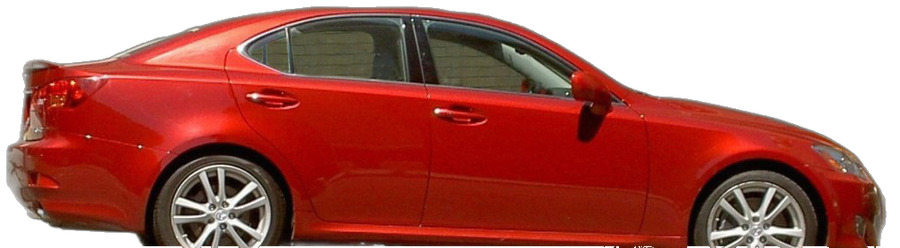
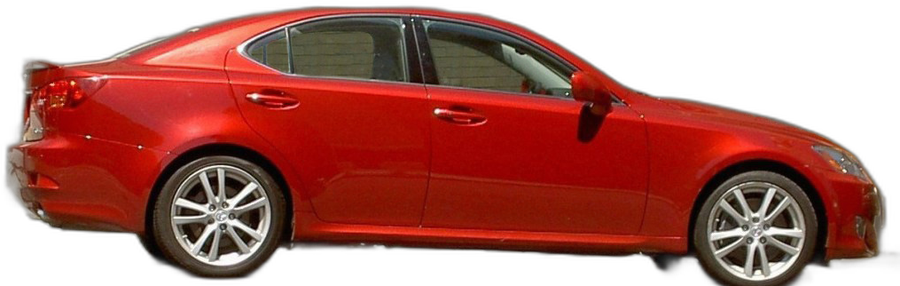
Урок 10: исправлена вырезка фото — низ шин больше не срезан (обрезалась только тень под машиной), колёса видны полностью (v75)

diff --git a/MVP/js/lessons.js b/MVP/js/lessons.js
@@ -695,7 +695,7 @@ function l10Road(moving, v1, v2, dur, dist, start){
     <!-- машина (стоит на асфальте: низ фото = верх асфальта) -->
     <div style="position:absolute;bottom:${ASF}px;left:${stX}px;z-index:4;animation:wvDrive ${dur||1.6}s cubic-bezier(.45,0,.55,1) both;--dx:${dx}px;line-height:0">
       <div class="${moving?'l10-bob':''}" style="line-height:0">
-        <img src="img/car.png?v=73" alt="машина" style="width:${CARW}px;height:auto;display:block">
+        <img src="img/car.png?v=75" alt="машина" style="width:${CARW}px;height:auto;display:block">
       </div>
     </div>
     ${dust}
@@ -929,7 +929,7 @@ function visPhysNew(el){
           const v=Math.round(st.p/st.t*10)/10; const px=Math.min(208, st.p*3);
           h=col(
             `<div class="wv-road" style="width:300px"><div class="wv-lane"></div>
-              <div style="position:absolute;bottom:-2px;left:2px;transform:translateX(${px}px);transition:transform 1s ease;line-height:0"><img src="img/car.png?v=73" style="width:88px;height:auto;display:block"></div>
+              <div style="position:absolute;bottom:-2px;left:2px;transform:translateX(${px}px);transition:transform 1s ease;line-height:0"><img src="img/car.png?v=75" style="width:88px;height:auto;display:block"></div>
               <div style="position:absolute;top:-4px;right:2px;font-size:12px;color:#7fa88f;font-weight:bold">${st.p} км</div>
               <div style="position:absolute;top:1px;left:4px;font-size:12px;color:#9fc5f5">⏱ ${st.t} ч</div></div>`+
             big(`S = ${st.p} км · t = ${st.t} ч`)+big(`v = S : t = ${st.p} : ${st.t} = ${v} км/ч`)+
@@ -940,7 +940,7 @@ function visPhysNew(el){
           const S=st.v*st.t; const px=Math.min(208, S*3);
           h=col(
             `<div class="wv-road" style="width:300px"><div class="wv-lane"></div>
-              <div style="position:absolute;bottom:-2px;left:2px;transform:translateX(${px}px);transition:transform 1s ease;line-height:0"><img src="img/car.png?v=73" style="width:88px;height:auto;display:block"></div>
+              <div style="position:absolute;bottom:-2px;left:2px;transform:translateX(${px}px);transition:transform 1s ease;line-height:0"><img src="img/car.png?v=75" style="width:88px;height:auto;display:block"></div>
               <div style="position:absolute;top:-4px;right:2px;font-size:12px;color:#7fa88f;font-weight:bold">${S} км</div></div>`+
             big(`v=${st.v} км/ч · t=${st.t} ч`)+big(`S = v·t = ${S} км`)+
             btns(btn('🚗 +5 км/ч',`phAct('${lk}','v+')`),btn('−5 км/ч',`phAct('${lk}','v-')`),btn('⏱ +1 ч',`phAct('${lk}','t+')`),btn('⏱ −1 ч',`phAct('${lk}','t-')`),btn('↺',`phAct('${lk}','r')`))+

diff --git a/MVP/index.html b/MVP/index.html
@@ -409,21 +409,21 @@
 
 <div class="toast" id="toast"></div>
 
-<script src="data/tasks.js?v=74"></script>
-<script src="data/lessons.js?v=74"></script>
-<script src="js/comic.js?v=74"></script>
-<script src="js/core.js?v=74"></script>
-<script src="js/engine.js?v=74"></script>
-<script src="js/app.js?v=74"></script>
-<script src="js/dashboard.js?v=74"></script>
-<script src="js/lessons.js?v=74"></script>
-<script src="js/legend.js?v=74"></script>
-<script src="js/simulator.js?v=74"></script>
-<script src="js/duel.js?v=74"></script>
-<script src="js/agent.js?v=74"></script>
-<script src="js/voice.js?v=74"></script>
-<script src="js/assistant.js?v=74"></script>
-<script src="js/agentlive.js?v=74"></script>
+<script src="data/tasks.js?v=75"></script>
+<script src="data/lessons.js?v=75"></script>
+<script src="js/comic.js?v=75"></script>
+<script src="js/core.js?v=75"></script>
+<script src="js/engine.js?v=75"></script>
+<script src="js/app.js?v=75"></script>
+<script src="js/dashboard.js?v=75"></script>
+<script src="js/lessons.js?v=75"></script>
+<script src="js/legend.js?v=75"></script>
+<script src="js/simulator.js?v=75"></script>
+<script src="js/duel.js?v=75"></script>
+<script src="js/agent.js?v=75"></script>
+<script src="js/voice.js?v=75"></script>
+<script src="js/assistant.js?v=75"></script>
+<script src="js/agentlive.js?v=75"></script>
 <script>
   /* автоочистка устаревшего кэша (одноразово за сессию) */
   (function(){
@@ -438,7 +438,7 @@
   })();
 
 if('serviceWorker' in navigator && location.protocol.startsWith('http')){
-  window.addEventListener('load', ()=>{ navigator.serviceWorker.register('sw.js?v=74').catch(()=>{}); });
+  window.addEventListener('load', ()=>{ navigator.serviceWorker.register('sw.js?v=75').catch(()=>{}); });
 }
 window.addEventListener('DOMContentLoaded', ()=>{ init(); VOICE.init(); });
 </script>

diff --git a/MVP/js/assistant.js b/MVP/js/assistant.js
@@ -74,7 +74,7 @@
       <div class="ap-chips" id="asstChips"></div>
       <div class="ap-hint">💡 Кнопки меню подстраиваются под экран; голосовые — работают, когда разговор включён.</div>
       <div style="display:flex;gap:8px;align-items:center;margin-top:8px">
-        <span class="ap-hint" id="asstVer" style="margin:0">сборка v74</span>
+        <span class="ap-hint" id="asstVer" style="margin:0">сборка v75</span>
         <button class="asmall" style="width:auto;padding:0 10px" onclick="ASSIST.hardReload()" title="Сбросить кэш и обновить">🔄 Обновить</button>
       </div>
     </div>`)

diff --git a/MVP/sw.js b/MVP/sw.js
@@ -1,5 +1,5 @@
 /* АРХИМЕД MVP · service worker (офлайн) */
-const CACHE='arhimed-mvp-v74';
+const CACHE='arhimed-mvp-v75';
 const ASSETS=['index.html','img/car.png','data/tasks.js','data/lessons.js',
  'js/core.js','js/engine.js','js/app.js','js/dashboard.js','js/lessons.js','js/legend.js','js/comic.js','js/simulator.js','js/duel.js',
  'manifest.webmanifest','../МОБ_ПРИЛОЖЕНИЕ/icons/icon-192.png'];
